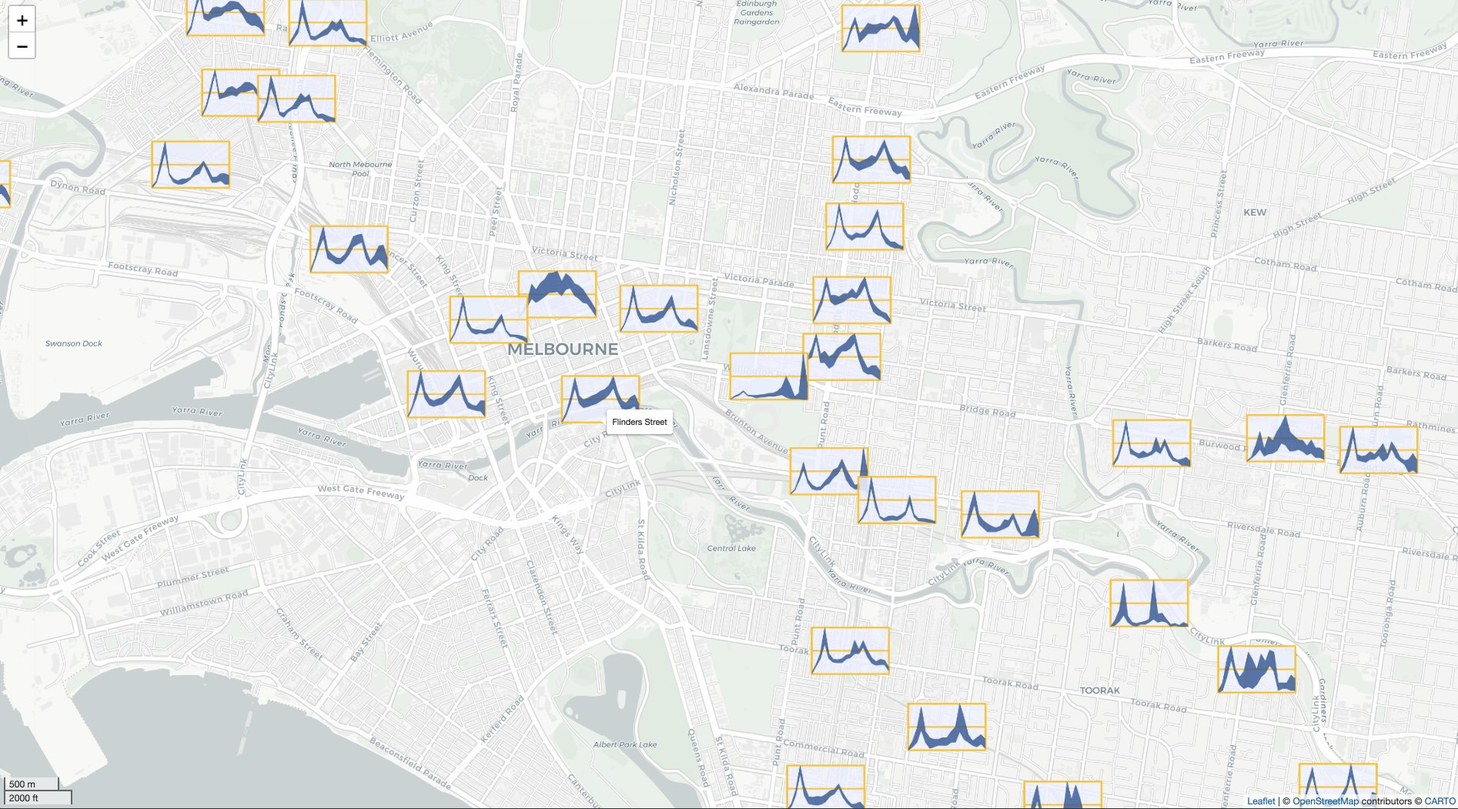
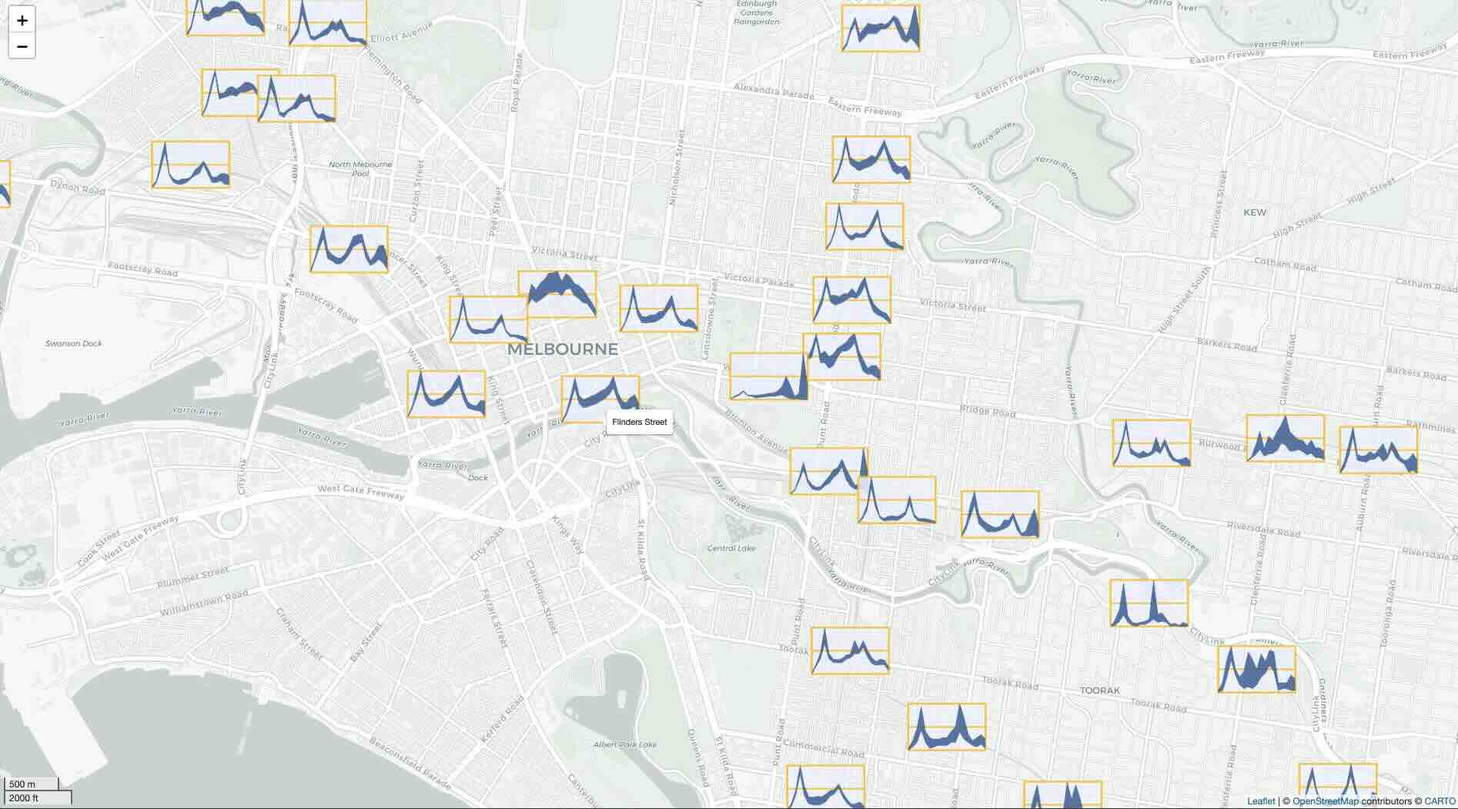
Resize images

diff --git a/docs/articles/sugarglider.html b/docs/articles/sugarglider.html
@@ -70,9 +70,9 @@
 
     
     
-<div class="section level2">
-<h2 id="overview">Overview<a class="anchor" aria-label="anchor" href="#overview"></a>
-</h2>
+<div class="section level3">
+<h3 id="overview">Overview<a class="anchor" aria-label="anchor" href="#overview"></a>
+</h3>
 <p>The <code>sugarglider</code> package extends the capabilities of
 ggplot2 by introducing functions specifically designed for visualizing
 seasonal patterns in spatio-temporal data. It includes
@@ -87,7 +87,7 @@ or segment glyphs. Additionally, users can create a legend, adding an
 extra layer to the glyph maps. Apart from the base map, sugarglider
 offers functionalities to generate all the elements of a comprehensive
 glyph map, as illustrated in the figure below.</p>
-<p><img src="../reference/figures/glyphmap-layers.png"> Each layer can be
+<p><img src="../reference/figures/glyphmap-layer.png"> Each layer can be
 plotted independently, and the package supports the creation of glyph
 plots using either ribbon or segment geometries. The core functionality
 includes:</p>
@@ -168,9 +168,9 @@ plot’s appearance, including the legend position, text styles, and
 background settings, to create a clean, visually consistent layout for
 glyph visualizations.</p>
 </div>
-<div class="section level2">
-<h2 id="aesthetics">Aesthetics<a class="anchor" aria-label="anchor" href="#aesthetics"></a>
-</h2>
+<div class="section level3">
+<h3 id="aesthetics">Aesthetics<a class="anchor" aria-label="anchor" href="#aesthetics"></a>
+</h3>
 <p>sugarglider provides the same aesthetics for
 <code><a href="../reference/geom_glyph_ribbon.html">geom_glyph_ribbon()</a></code> and <code><a href="../reference/geom_glyph_segment.html">geom_glyph_segment()</a></code>
 as those available in <code><a href="https://ggplot2.tidyverse.org/reference/geom_ribbon.html" class="external-link">geom_ribbon()</a></code> and
@@ -261,9 +261,9 @@ aspects:</p>
 </tbody>
 </table>
 </div>
-<div class="section level2">
-<h2 id="options">Options<a class="anchor" aria-label="anchor" href="#options"></a>
-</h2>
+<div class="section level3">
+<h3 id="options">Options<a class="anchor" aria-label="anchor" href="#options"></a>
+</h3>
 <p>Options within the <code>sugarglider</code> package allow you to
 tailor the behavior of your visualizations to meet the specific needs of
 your analysis. The <em>global_rescale</em> argument provides control
@@ -329,7 +329,7 @@ maintain a consistent aspect ratio.</td>
 <td><code>global_rescale</code></td>
 <td><code>TRUE</code></td>
 <td>Determines whether rescaling is applied globally across all glyphs
-or individually for each glyph</td>
+or individually for each glyph.</td>
 </tr>
 </tbody>
 </table>
@@ -339,26 +339,28 @@ or individually for each glyph</td>
 </h2>
 <p>Interactive graphics are particularly useful when working with
 spatio-temporal data as they allow users to explore the data from
-multiple perspectives. The <a href="https://huizezhang-sherry.github.io/cubble/articles/cb6interactive.html" class="external-link">cubble</a>
-package exemplifies this by creating linked interactive plots using
-<code>crosswalk::bscols()</code>. In this vignette, we will demonstrate
-how to create interactive glyph maps using Leaflet and ggiraph.</p>
-<div class="section level3">
-<h3 id="create-glyph-maps-with-leaflet">Create glyph maps with leaflet<a class="anchor" aria-label="anchor" href="#create-glyph-maps-with-leaflet"></a>
-</h3>
+multiple perspectives. The <code>cubble</code> package, exemplifies this
+by creating linked interactive plots using
+<code>crosswalk::bscols()</code> (<span class="citation">@JSSv110i07</span>). In this paper, we will demonstrate
+how to create interactive glyph maps using Leaflet.</p>
+</div>
+<div class="section level2">
+<h2 id="create-glyph-maps-with-leaflet">Create glyph maps with leaflet<a class="anchor" aria-label="anchor" href="#create-glyph-maps-with-leaflet"></a>
+</h2>
 <p>The dataset used in this example, <code>train</code>, provides a
-comprehensive monthly summary of hourly patronage at each train station
+comprehensive monthly summary of daily patronage at each train station
 in Victoria for the fiscal year 2023-2024. To create interactive glyph
 maps with Leaflet, we first need to save each glyph as a PNG and then
-add these to the Leaflet basemap as icons. The process starts by
-creating a list of unique train stations, then iterates through each
-station to generate ribbon glyphs using
-<code><a href="../reference/geom_glyph_ribbon.html">geom_glyph_ribbon()</a></code>, <code><a href="../reference/add_glyph_boxes.html">add_glyph_boxes()</a></code> and
-<code><a href="../reference/add_ref_lines.html">add_ref_lines()</a></code>. Each glyph is saved in PNG format, and the
-file paths for all the PNGs are stored in an object for the next
+add these to the Leaflet basemap as icons. The process begins by
+creating a list of all unique train stations that service both metro and
+vline. We then iterate over each station and generate ribbon glyphs
+using <code><a href="../reference/geom_glyph_ribbon.html">geom_glyph_ribbon()</a></code>, <code><a href="../reference/add_glyph_boxes.html">add_glyph_boxes()</a></code>
+and <code><a href="../reference/add_ref_lines.html">add_ref_lines()</a></code>. Each glyph is saved in PNG format, and
+the file paths for all the PNGs are stored in an object for the next
 step.</p>
 <div class="sourceCode" id="cb2"><pre class="downlit sourceCode r">
-<code class="sourceCode R"><span><span class="co"># Generate a list of unique train stations </span></span>
+<code class="sourceCode R"><span></span>
+<span><span class="co"># Generate a list of unique train stations</span></span>
 <span><span class="va">df_station</span> <span class="op">&lt;-</span> <span class="va">train</span><span class="op">$</span><span class="va">station_name</span> <span class="op">|&gt;</span> <span class="fu"><a href="https://rdrr.io/r/base/unique.html" class="external-link">unique</a></span><span class="op">(</span><span class="op">)</span></span>
 <span></span>
 <span><span class="co"># Generate PNG of all the ribbon glyph</span></span>
@@ -366,20 +368,21 @@ step.</p>
 <span>  <span class="va">dt</span> <span class="op">&lt;-</span> <span class="va">train</span> <span class="op">|&gt;</span> <span class="fu"><a href="https://rdrr.io/r/stats/filter.html" class="external-link">filter</a></span><span class="op">(</span><span class="va">station_name</span> <span class="op">==</span> <span class="va">df_station</span><span class="op">[</span><span class="va">i</span><span class="op">]</span><span class="op">)</span></span>
 <span>  <span class="va">p</span> <span class="op">&lt;-</span> <span class="va">dt</span> <span class="op">|&gt;</span></span>
 <span>  <span class="fu"><a href="https://ggplot2.tidyverse.org/reference/ggplot.html" class="external-link">ggplot</a></span><span class="op">(</span><span class="fu"><a href="https://ggplot2.tidyverse.org/reference/aes.html" class="external-link">aes</a></span><span class="op">(</span>x_major <span class="op">=</span> <span class="va">long</span>, y_major <span class="op">=</span> <span class="va">lat</span>,</span>
-<span>                   x_minor <span class="op">=</span> <span class="va">hour</span>, ymin_minor <span class="op">=</span> <span class="va">min_weekday</span>,</span>
-<span>                   ymax_minor <span class="op">=</span> <span class="va">max_weekday</span><span class="op">)</span><span class="op">)</span> <span class="op">+</span></span>
-<span>    <span class="fu"><a href="../reference/add_glyph_boxes.html">add_glyph_boxes</a></span><span class="op">(</span>color <span class="op">=</span> <span class="st">"#ffc40d"</span>, </span>
-<span>                    fill <span class="op">=</span> <span class="st">"#eff4ff"</span>, alpha <span class="op">=</span> <span class="fl">0.5</span>,</span>
-<span>                    linewidth <span class="op">=</span> <span class="fl">2</span>, width <span class="op">=</span> <span class="fl">3</span>, height  <span class="op">=</span><span class="fl">2</span><span class="op">)</span> <span class="op">+</span></span>
-<span>    <span class="fu"><a href="../reference/add_ref_lines.html">add_ref_lines</a></span><span class="op">(</span>color <span class="op">=</span> <span class="st">"#ffc40d"</span>, alpha <span class="op">=</span> <span class="fl">1</span>,</span>
-<span>                  linewidth <span class="op">=</span> <span class="fl">2</span>, width <span class="op">=</span> <span class="fl">3</span>, height  <span class="op">=</span><span class="fl">2</span><span class="op">)</span> <span class="op">+</span></span>
-<span>    <span class="fu"><a href="../reference/geom_glyph_ribbon.html">geom_glyph_ribbon</a></span><span class="op">(</span>color <span class="op">=</span> <span class="st">"#2b5797"</span>, fill <span class="op">=</span> <span class="st">"#2b5797"</span>,</span>
+<span>                   x_minor <span class="op">=</span> <span class="va">month_year</span>, ymin_minor <span class="op">=</span> <span class="va">min_monthly</span>,</span>
+<span>                   ymax_minor <span class="op">=</span> <span class="va">max_monthly</span><span class="op">)</span><span class="op">)</span> <span class="op">+</span></span>
+<span>    <span class="fu"><a href="../reference/add_glyph_boxes.html">add_glyph_boxes</a></span><span class="op">(</span>color <span class="op">=</span> <span class="st">"#FFAD60"</span>, </span>
+<span>                    fill <span class="op">=</span> <span class="st">"#FFEEAD"</span>, alpha <span class="op">=</span> <span class="fl">0.5</span>,</span>
+<span>                    linewidth <span class="op">=</span> <span class="fl">1</span>, width <span class="op">=</span> <span class="fl">3</span>, height  <span class="op">=</span><span class="fl">2</span><span class="op">)</span> <span class="op">+</span></span>
+<span>    <span class="fu"><a href="../reference/add_ref_lines.html">add_ref_lines</a></span><span class="op">(</span>color <span class="op">=</span> <span class="st">"#FFAD60"</span>, alpha <span class="op">=</span> <span class="fl">1</span>,</span>
+<span>                  linewidth <span class="op">=</span> <span class="fl">1</span>, width <span class="op">=</span> <span class="fl">3</span>, height  <span class="op">=</span><span class="fl">2</span><span class="op">)</span> <span class="op">+</span></span>
+<span>    <span class="fu"><a href="../reference/geom_glyph_ribbon.html">geom_glyph_ribbon</a></span><span class="op">(</span>color <span class="op">=</span> <span class="st">"#A66E38"</span>, fill <span class="op">=</span> <span class="st">"#A66E38"</span>,</span>
 <span>                      width <span class="op">=</span> <span class="fl">3</span>, height  <span class="op">=</span><span class="fl">2</span><span class="op">)</span> <span class="op">+</span></span>
 <span>    <span class="fu"><a href="https://ggplot2.tidyverse.org/reference/ggtheme.html" class="external-link">theme_void</a></span><span class="op">(</span><span class="op">)</span> </span>
 <span>  </span>
-<span>  <span class="va">file_path</span> <span class="op">&lt;-</span> <span class="fu"><a href="https://rdrr.io/r/base/paste.html" class="external-link">paste0</a></span><span class="op">(</span><span class="st">"../man/figures/glyph_"</span>, <span class="va">df_station</span><span class="op">[</span><span class="va">i</span><span class="op">]</span>, <span class="st">".png"</span><span class="op">)</span></span>
-<span>  <span class="fu"><a href="https://ggplot2.tidyverse.org/reference/ggsave.html" class="external-link">ggsave</a></span><span class="op">(</span><span class="va">file_path</span>, plot <span class="op">=</span> <span class="va">p</span>, width <span class="op">=</span> <span class="fl">3</span>, height <span class="op">=</span> <span class="fl">2</span>, units <span class="op">=</span> <span class="st">"in"</span>,</span>
-<span>         path <span class="op">=</span> <span class="st">"../man/figures"</span><span class="op">)</span></span>
+<span>  <span class="va">file_path</span> <span class="op">&lt;-</span> <span class="fu"><a href="https://rdrr.io/r/base/paste.html" class="external-link">paste0</a></span><span class="op">(</span><span class="st">"figures/glyph_"</span>, <span class="va">df_station</span><span class="op">[</span><span class="va">i</span><span class="op">]</span>, <span class="st">".png"</span><span class="op">)</span></span>
+<span>  <span class="fu"><a href="https://ggplot2.tidyverse.org/reference/ggsave.html" class="external-link">ggsave</a></span><span class="op">(</span><span class="va">file_path</span>, plot <span class="op">=</span> <span class="va">p</span>, width <span class="op">=</span> <span class="fl">3</span>, height <span class="op">=</span> <span class="fl">2</span>, units <span class="op">=</span> <span class="st">"in"</span>, dpi <span class="op">=</span> <span class="fl">300</span>,</span>
+<span>         bg <span class="op">=</span> <span class="st">"transparent"</span><span class="op">)</span></span>
+<span>  <span class="kw"><a href="https://rdrr.io/r/base/function.html" class="external-link">return</a></span><span class="op">(</span><span class="va">file_path</span><span class="op">)</span></span>
 <span></span>
 <span>  <span class="op">}</span><span class="op">)</span> <span class="op">-&gt;</span> <span class="va">train_png</span> </span></code></pre></div>
 <p>To create the base map for Leaflet, we use the <code>leaflet()</code>
@@ -415,6 +418,46 @@ station ID.</p>
 <span><span class="va">leaflet_map</span></span></code></pre></div>
 <p><img src="../reference/figures/leaflet-screenshot.jpg"></p>
 </div>
+<div class="section level2">
+<h2 id="create-interative-glyph-maps-with-ggiraph">Create interative glyph maps with ggiraph<a class="anchor" aria-label="anchor" href="#create-interative-glyph-maps-with-ggiraph"></a>
+</h2>
+<p>User can generate interactive glyphs with
+<code><a href="https://davidgohel.github.io/ggiraph/reference/girafe.html" class="external-link">ggiraph::girafe</a></code> using sugarglider. To illustrate, we will
+use the <code>aus_temp</code> dataset in this example. First, users need
+to specify tooltips, which are the details displayed when hovering over
+the glyphs. In this example, the tooltips consist of station id, month,
+minimum and maximum temperature across all month.</p>
+<div class="sourceCode" id="cb5"><pre class="downlit sourceCode r">
+<code class="sourceCode R"><span><span class="va">vic_nsw</span> <span class="op">&lt;-</span> <span class="va">aus_temp</span> <span class="op">|&gt;</span></span>
+<span>  <span class="fu"><a href="https://rdrr.io/r/stats/filter.html" class="external-link">filter</a></span><span class="op">(</span><span class="va">id</span> <span class="op"><a href="https://rdrr.io/r/base/match.html" class="external-link">%in%</a></span> <span class="fu"><a href="https://rdrr.io/r/base/c.html" class="external-link">c</a></span><span class="op">(</span><span class="st">"ASN00026021"</span>, <span class="st">"ASN00085291"</span>, <span class="st">"ASN00084143"</span>,</span>
+<span>                   <span class="st">"ASN00055325"</span>, <span class="st">"ASN00049000"</span><span class="op">)</span><span class="op">)</span></span>
+<span><span class="co"># Specify tooltip for ggiraph </span></span>
+<span><span class="va">vic_nsw</span> <span class="op">&lt;-</span> <span class="va">vic_nsw</span> <span class="op">|&gt;</span></span>
+<span>  <span class="fu">mutate</span><span class="op">(</span>tooltip <span class="op">=</span> <span class="fu"><a href="https://rdrr.io/r/base/paste.html" class="external-link">paste</a></span><span class="op">(</span><span class="st">"Station ID: "</span>, <span class="va">id</span>,</span>
+<span>                         <span class="st">"\nmonth: "</span>, <span class="va">month</span>,</span>
+<span>                         <span class="st">"\nmin-temp: "</span>, <span class="fu"><a href="https://rdrr.io/r/base/Round.html" class="external-link">round</a></span><span class="op">(</span><span class="va">tmin</span>,<span class="fl">2</span><span class="op">)</span>,</span>
+<span>                         <span class="st">"\nmax-temp: "</span>, <span class="fu"><a href="https://rdrr.io/r/base/Round.html" class="external-link">round</a></span><span class="op">(</span><span class="va">tmax</span>,<span class="fl">2</span><span class="op">)</span><span class="op">)</span><span class="op">)</span></span></code></pre></div>
+<p>Tooltips needs to be provided in the asethetic to in the
+<code>tooltip</code> argument. User can then plot their desired glyph
+map and save it as a ggplot object. This ggplot object is then converted
+into girafe object using the <code>girafe()</code> function.</p>
+<div class="sourceCode" id="cb6"><pre class="downlit sourceCode r">
+<code class="sourceCode R"><span><span class="va">temp</span> <span class="op">&lt;-</span> <span class="va">vic_nsw</span> <span class="op">|&gt;</span> </span>
+<span>  <span class="fu"><a href="https://ggplot2.tidyverse.org/reference/ggplot.html" class="external-link">ggplot</a></span><span class="op">(</span><span class="fu"><a href="https://ggplot2.tidyverse.org/reference/aes.html" class="external-link">aes</a></span><span class="op">(</span>x_major <span class="op">=</span> <span class="va">long</span>, y_major <span class="op">=</span> <span class="va">lat</span>,</span>
+<span>             x_minor <span class="op">=</span> <span class="va">month</span>, y_minor <span class="op">=</span> <span class="va">tmin</span>,</span>
+<span>             yend_minor <span class="op">=</span> <span class="va">tmax</span>,</span>
+<span>             tooltip <span class="op">=</span> <span class="va">tooltip</span><span class="op">)</span><span class="op">)</span> <span class="op">+</span> </span>
+<span>  <span class="fu"><a href="https://ggplot2.tidyverse.org/reference/ggsf.html" class="external-link">geom_sf</a></span><span class="op">(</span>data <span class="op">=</span> <span class="va">abs_ste</span> <span class="op">|&gt;</span> <span class="fu"><a href="https://rdrr.io/r/stats/filter.html" class="external-link">filter</a></span><span class="op">(</span><span class="va">NAME</span> <span class="op"><a href="https://rdrr.io/r/base/match.html" class="external-link">%in%</a></span> <span class="fu"><a href="https://rdrr.io/r/base/c.html" class="external-link">c</a></span><span class="op">(</span><span class="st">"New South Wales"</span>, <span class="st">"Victoria"</span><span class="op">)</span><span class="op">)</span>,</span>
+<span>          color <span class="op">=</span> <span class="st">"white"</span>,</span>
+<span>          fill <span class="op">=</span> <span class="st">"antiquewhite"</span>, inherit.aes <span class="op">=</span> <span class="cn">FALSE</span><span class="op">)</span> <span class="op">+</span></span>
+<span>  <span class="fu"><a href="../reference/add_glyph_boxes.html">add_glyph_boxes</a></span><span class="op">(</span>color <span class="op">=</span> <span class="st">"#CD5C08"</span><span class="op">)</span> <span class="op">+</span></span>
+<span>  <span class="fu"><a href="../reference/add_ref_lines.html">add_ref_lines</a></span><span class="op">(</span>color <span class="op">=</span> <span class="st">"#CD5C08"</span><span class="op">)</span> <span class="op">+</span></span>
+<span>  <span class="fu"><a href="../reference/geom_glyph_segment.html">geom_glyph_segment</a></span><span class="op">(</span>color <span class="op">=</span> <span class="st">"#CD5C08"</span><span class="op">)</span> <span class="op">+</span></span>
+<span>  <span class="fu"><a href="https://ggplot2.tidyverse.org/reference/ggsf.html" class="external-link">coord_sf</a></span><span class="op">(</span>xlim <span class="op">=</span> <span class="fu"><a href="https://rdrr.io/r/base/c.html" class="external-link">c</a></span><span class="op">(</span><span class="fl">140</span>,<span class="fl">153</span><span class="op">)</span><span class="op">)</span> <span class="op">+</span></span>
+<span>  <span class="fu"><a href="../reference/theme_glyph.html">theme_glyph</a></span><span class="op">(</span><span class="op">)</span> </span>
+<span><span class="co"># Interactive plot using ggiraph</span></span>
+<span><span class="fu">girafe</span><span class="op">(</span>ggobj <span class="op">=</span> <span class="va">temp</span><span class="op">)</span></span></code></pre></div>
+<p><img src="../reference/figures/girafe-screenshot.jpg"></p>
 </div>
   </main><aside class="col-md-3"><nav id="toc" aria-label="Table of contents"><h2>On this page</h2>
     </nav></aside>

diff --git a/docs/articles/Examples.html b/docs/articles/Examples.html
@@ -459,45 +459,6 @@ for reproducibility to ensure consistent results.</p>
 <span><span class="va">legend</span></span></code></pre></div>
 <p><img src="Examples_files/figure-html/unnamed-chunk-7-1.png" width="960"></p>
 </div>
-</div>
-<div class="section level3">
-<h3 id="create-interactive-glyph-maps-with-ggiraph">Create interactive glyph maps with ggiraph<a class="anchor" aria-label="anchor" href="#create-interactive-glyph-maps-with-ggiraph"></a>
-</h3>
-<p>User can generate interactive glyphs with
-<code><a href="https://davidgohel.github.io/ggiraph/reference/girafe.html" class="external-link">ggiraph::girafe</a></code> using sugarglider. To illustrate, we will
-use the <code>aus_temp</code> dataset in this example. First, users need
-to specify tooltips, which are the details displayed when hovering over
-the glyphs. In this example, the tooltips consist of station id, month,
-minimum and maximum temperature across all month.</p>
-<p>Tooltips needs to be provided in the aesthetic to in the
-<code>tooltip</code> argument. User can then plot their desired glyph
-map and save it as a ggplot object. This ggplot object is then converted
-into girafe object using the <code>girafe()</code> function.</p>
-<div class="sourceCode" id="cb7"><pre class="downlit sourceCode r">
-<code class="sourceCode R"><span><span class="co"># Specify tooltip for ggiraph </span></span>
-<span><span class="va">vic_nsw</span> <span class="op">&lt;-</span> <span class="va">vic_nsw</span> <span class="op">|&gt;</span></span>
-<span>  <span class="fu">mutate</span><span class="op">(</span>tooltip <span class="op">=</span> <span class="fu"><a href="https://rdrr.io/r/base/paste.html" class="external-link">paste</a></span><span class="op">(</span><span class="st">"Station ID: "</span>, <span class="va">id</span>,</span>
-<span>                         <span class="st">"\nmonth: "</span>, <span class="va">month</span>,</span>
-<span>                         <span class="st">"\nmin-temp: "</span>, <span class="fu"><a href="https://rdrr.io/r/base/Round.html" class="external-link">round</a></span><span class="op">(</span><span class="va">tmin</span>,<span class="fl">2</span><span class="op">)</span>,</span>
-<span>                         <span class="st">"\nmax-temp: "</span>, <span class="fu"><a href="https://rdrr.io/r/base/Round.html" class="external-link">round</a></span><span class="op">(</span><span class="va">tmax</span>,<span class="fl">2</span><span class="op">)</span><span class="op">)</span><span class="op">)</span></span>
-<span></span>
-<span><span class="va">temp</span> <span class="op">&lt;-</span> <span class="va">vic_nsw</span> <span class="op">|&gt;</span> </span>
-<span>  <span class="fu"><a href="https://ggplot2.tidyverse.org/reference/ggplot.html" class="external-link">ggplot</a></span><span class="op">(</span><span class="fu"><a href="https://ggplot2.tidyverse.org/reference/aes.html" class="external-link">aes</a></span><span class="op">(</span>x_major <span class="op">=</span> <span class="va">long</span>, y_major <span class="op">=</span> <span class="va">lat</span>,</span>
-<span>             x_minor <span class="op">=</span> <span class="va">month</span>, y_minor <span class="op">=</span> <span class="va">tmin</span>,</span>
-<span>             yend_minor <span class="op">=</span> <span class="va">tmax</span>,</span>
-<span>             tooltip <span class="op">=</span> <span class="va">tooltip</span><span class="op">)</span><span class="op">)</span> <span class="op">+</span> </span>
-<span>  <span class="fu"><a href="https://ggplot2.tidyverse.org/reference/ggsf.html" class="external-link">geom_sf</a></span><span class="op">(</span>data <span class="op">=</span> <span class="va">abs_ste</span> <span class="op">|&gt;</span> <span class="fu"><a href="https://rdrr.io/r/stats/filter.html" class="external-link">filter</a></span><span class="op">(</span><span class="va">NAME</span> <span class="op"><a href="https://rdrr.io/r/base/match.html" class="external-link">%in%</a></span> <span class="fu"><a href="https://rdrr.io/r/base/c.html" class="external-link">c</a></span><span class="op">(</span><span class="st">"New South Wales"</span>, <span class="st">"Victoria"</span><span class="op">)</span><span class="op">)</span>,</span>
-<span>          color <span class="op">=</span> <span class="st">"white"</span>,</span>
-<span>          fill <span class="op">=</span> <span class="st">"antiquewhite"</span>, inherit.aes <span class="op">=</span> <span class="cn">FALSE</span><span class="op">)</span> <span class="op">+</span></span>
-<span>  <span class="fu"><a href="../reference/add_glyph_boxes.html">add_glyph_boxes</a></span><span class="op">(</span>color <span class="op">=</span> <span class="st">"#CD5C08"</span><span class="op">)</span> <span class="op">+</span></span>
-<span>  <span class="fu"><a href="../reference/add_ref_lines.html">add_ref_lines</a></span><span class="op">(</span>color <span class="op">=</span> <span class="st">"#CD5C08"</span><span class="op">)</span> <span class="op">+</span></span>
-<span>  <span class="fu"><a href="../reference/geom_glyph_segment.html">geom_glyph_segment</a></span><span class="op">(</span>color <span class="op">=</span> <span class="st">"#CD5C08"</span><span class="op">)</span> <span class="op">+</span></span>
-<span>  <span class="fu"><a href="https://ggplot2.tidyverse.org/reference/ggsf.html" class="external-link">coord_sf</a></span><span class="op">(</span>xlim <span class="op">=</span> <span class="fu"><a href="https://rdrr.io/r/base/c.html" class="external-link">c</a></span><span class="op">(</span><span class="fl">140</span>,<span class="fl">153</span><span class="op">)</span><span class="op">)</span> <span class="op">+</span></span>
-<span>  <span class="fu"><a href="../reference/theme_glyph.html">theme_glyph</a></span><span class="op">(</span><span class="op">)</span> </span>
-<span></span>
-<span><span class="co"># Interactive plot using ggiraph</span></span>
-<span><span class="fu">girafe</span><span class="op">(</span>ggobj <span class="op">=</span> <span class="va">temp</span><span class="op">)</span></span></code></pre></div>
-<p><img src="../reference/figures/girafe-screenshot.jpg"></p>
 <div class="section level4">
 <h4 id="observations-and-insights">Observations and Insights<a class="anchor" aria-label="anchor" href="#observations-and-insights"></a>
 </h4>

diff --git a/docs/index.html b/docs/index.html
@@ -81,7 +81,7 @@
 <h2 id="usage">Usage<a class="anchor" aria-label="anchor" href="#usage"></a>
 </h2>
 <p>See the <a href="https://maliny12.github.io/sugarglider/articles/Examples.html">examples</a> page to learn more about how to use sugarglider in your project.</p>
-<p><a href="https://maliny12.github.io/sugarglider/articles/sugarglider.html"><img width="350" height="200" src="https://raw.githubusercontent.com/maliny12/sugarglider/main/man/figures/leaflet-screenshot.jpg" alt="Generate glyph-maps with leaflet."></a> <a href="https://maliny12.github.io/sugarglider/articles/Examples.html"><img width="350" height="200" src="https://raw.githubusercontent.com/maliny12/sugarglider/main/man/figures/segment-girafe.jpeg" alt="Generate interavtive glyphs with ggiraph"></a> <a href="https://maliny12.github.io/sugarglider/articles/Examples.html"><img width="350" height="200" src="https://raw.githubusercontent.com/maliny12/sugarglider/main/man/figures/legend_plot.jpeg" alt="Add ribbon legend to the glyph map."></a> <a href="https://maliny12.github.io/sugarglider/articles/Examples.html"><img width="350" height="200" src="https://raw.githubusercontent.com/maliny12/sugarglider/main/man/figures/color-glyph.jpeg" alt="Color by year"></a></p>
+<p><a href="https://maliny12.github.io/sugarglider/articles/sugarglider.html"><img width="350" height="200" src="https://raw.githubusercontent.com/maliny12/sugarglider/main/man/figures/leaflet-screenshot.jpg" alt="Generate glyph-maps with leaflet."></a> <a href="https://maliny12.github.io/sugarglider/articles/sugarglider.html"><img width="350" height="200" src="https://raw.githubusercontent.com/maliny12/sugarglider/main/man/figures/segment-girafe.jpeg" alt="Generate interactive glyphs with ggiraph"></a> <a href="https://maliny12.github.io/sugarglider/articles/Examples.html"><img width="350" height="200" src="https://raw.githubusercontent.com/maliny12/sugarglider/main/man/figures/legend_plot.jpeg" alt="Add ribbon legend to the glyph map."></a> <a href="https://maliny12.github.io/sugarglider/articles/Examples.html"><img width="350" height="200" src="https://raw.githubusercontent.com/maliny12/sugarglider/main/man/figures/color-glyph.jpeg" alt="Color by year"></a></p>
 </div>
 </div>
   </main><aside class="col-md-3"><div class="links">

diff --git a/docs/reference/sugarglider.html b/docs/reference/sugarglider.html
@@ -61,7 +61,7 @@
     <div class="dont-index"><p><a href="https://ggplot2.tidyverse.org/reference/ggplot2-ggproto.html" class="external-link">GeomRibbon</a> from the ggplot2 package.</p>
 <p><a href="https://huizezhang-sherry.github.io/cubble/reference/glyph.html" class="external-link">geom_glyph_box</a> from the cubble package.</p>
 <p><a href="https://huizezhang-sherry.github.io/cubble/reference/glyph.html" class="external-link">geom_glyph_line</a> from the cubble package.</p>
-<p>Useful links:</p><ul><li><p><a href="https://maliny12.github.io/sugarglider">https://maliny12.github.io/sugarglider</a></p></li>
+<p>Useful links:</p><ul><li><p><a href="https://maliny12.github.io/sugarglider/">https://maliny12.github.io/sugarglider/</a></p></li>
 <li><p><a href="https://github.com/maliny12/sugarglider" class="external-link">https://github.com/maliny12/sugarglider</a></p></li>
 <li><p>Report bugs at <a href="https://github.com/maliny12/sugarglider/issues" class="external-link">https://github.com/maliny12/sugarglider/issues</a></p></li>
 </ul></div>

diff --git a/docs/authors.html b/docs/authors.html
@@ -66,13 +66,13 @@
 
       <p>Po M, Yang S (2024).
 <em>sugarglider: Create Glyph-Maps of Spatiotemporal Data</em>.
-https://maliny12.github.io/sugarglider, https://github.com/maliny12/sugarglider.
+https://maliny12.github.io/sugarglider/, https://github.com/maliny12/sugarglider.
 </p>
       <pre>@Manual{,
   title = {sugarglider: Create Glyph-Maps of Spatiotemporal Data},
   author = {Maliny Po and S. Nathan Yang},
   year = {2024},
-  note = {https://maliny12.github.io/sugarglider, https://github.com/maliny12/sugarglider},
+  note = {https://maliny12.github.io/sugarglider/, https://github.com/maliny12/sugarglider},
 }</pre>
     </div>
 

diff --git a/README.md b/README.md
@@ -38,6 +38,6 @@ See the
 page to learn more about how to use sugarglider in your project.
 
 <a href="https://maliny12.github.io/sugarglider/articles/sugarglider.html"><img width="350" height = "200" src="https://raw.githubusercontent.com/maliny12/sugarglider/main/man/figures/leaflet-screenshot.jpg" alt="Generate glyph-maps with leaflet."></img></a>
-<a href="https://maliny12.github.io/sugarglider/articles/Examples.html"><img width="350" height = "200" src="https://raw.githubusercontent.com/maliny12/sugarglider/main/man/figures/segment-girafe.jpeg" alt="Generate interavtive glyphs with ggiraph"></img></a>
+<a href="https://maliny12.github.io/sugarglider/articles/sugarglider.html"><img width="350" height = "200" src="https://raw.githubusercontent.com/maliny12/sugarglider/main/man/figures/segment-girafe.jpeg" alt="Generate interactive glyphs with ggiraph"></img></a>
 <a href="https://maliny12.github.io/sugarglider/articles/Examples.html"><img width="350" height = "200" src="https://raw.githubusercontent.com/maliny12/sugarglider/main/man/figures/legend_plot.jpeg" alt="Add ribbon legend to the glyph map."></img></a>
 <a href="https://maliny12.github.io/sugarglider/articles/Examples.html"><img width="350" height = "200" src="https://raw.githubusercontent.com/maliny12/sugarglider/main/man/figures/color-glyph.jpeg" alt="Color by year"></img></a>
